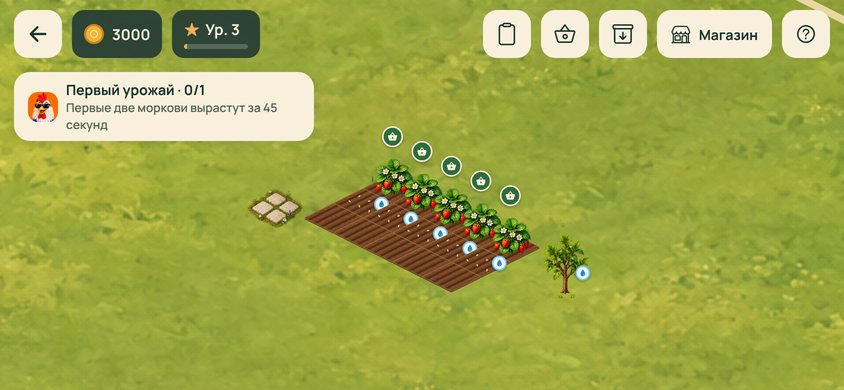
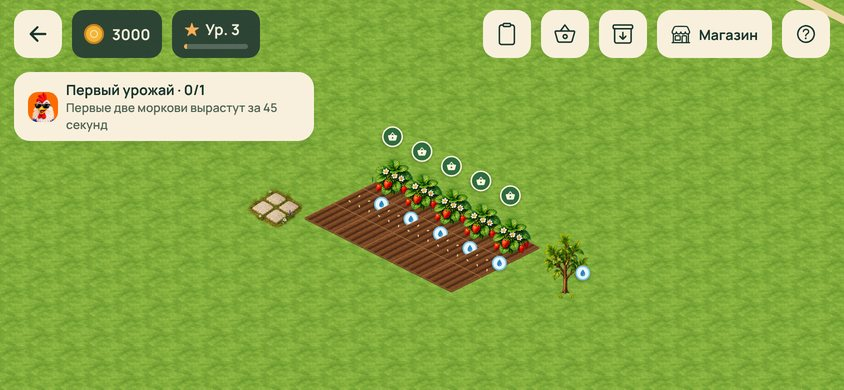
feat(farm): ground from one generated grass cell repeated everywhere
Replace the painted meadow with an original seamless grass cell (seeded
NumPy/Pillow generator) drawn on a 112x112-cell plane in 8x8 blocks with the
soil projection, so each grass square lands on one field cell. Planting stays
limited to the 32x32 field. Removes meadow-painted-v2.png from the bundle.

Claude-Session: https://claude.ai/code/session_01KFxz3P6cFXaNRdhpMhtKFe

diff --git a/apps/mobile/src/games/pick-farm/visuals.tsx b/apps/mobile/src/games/pick-farm/visuals.tsx
@@ -8,7 +8,7 @@ import { useGameCardHeight } from '../ArcadeCard';
 import { Image } from 'expo-image';
 import { View } from 'react-native';
 import { PLANTING_BOUNDS, HOUSE_DISPLAY_CELL, type CropId } from '@pickchick/farm-game';
-import { isoPoint, GROUND_TRANSFORM, TILE_WIDTH } from './geometry';
+import { isoPoint, GROUND_TRANSFORM, TILE_WIDTH, GRASS_CELLS } from './geometry';
 export { isoPoint, cellAtPoint } from './geometry';
 
 // Generated atlases remain intact. Each view clips its own source rectangle.
@@ -191,6 +191,52 @@ export function CellOutline({
     />
   );
 }
+
+const GRASS_BLOCK = 8;
+const grassBlock = require('../../../assets/games/pick-farm/grass-block.png');
+/**
+ * Ground made of one generated grass cell repeated everywhere. The plane is drawn as
+ * square blocks (8x8 cells each) and projected with the same transform as the soil, so
+ * every grass square lands exactly on one field cell. Centered on cell (31.5, 31.5).
+ */
+export const GrassGround = memo(function GrassGround() {
+  const side = GRASS_CELLS * TILE_WIDTH;
+  const center = isoPoint(31.5, 31.5);
+  const blocks = GRASS_CELLS / GRASS_BLOCK;
+  const block = GRASS_BLOCK * TILE_WIDTH;
+  return (
+    <View
+      pointerEvents="none"
+      accessible={false}
+      testID="pick-farm-grass"
+      style={{
+        position: 'absolute',
+        left: center.x - side / 2,
+        top: center.y - side / 2,
+        width: side,
+        height: side,
+        transform: GROUND_TRANSFORM,
+      }}
+    >
+      {Array.from({ length: blocks * blocks }, (_, i) => (
+        <NativeImage
+          key={i}
+          source={grassBlock}
+          resizeMode="stretch"
+          accessible={false}
+          style={{
+            position: 'absolute',
+            // A hair of overlap hides seams from sub-pixel rounding after the transform.
+            left: (i % blocks) * block - 0.5,
+            top: Math.floor(i / blocks) * block - 0.5,
+            width: block + 1,
+            height: block + 1,
+          }}
+        />
+      ))}
+    </View>
+  );
+});
 
 export const Landscape = memo(function Landscape({
   grid = false,

diff --git a/apps/mobile/src/games/pick-farm/PickFarmScreen.tsx b/apps/mobile/src/games/pick-farm/PickFarmScreen.tsx
@@ -46,11 +46,10 @@ import {
 } from './GardenPanels';
 import { useFarm, farmMessage } from './useFarm';
 import { useFarmSound } from './useFarmSound';
-import { CropArt, Landscape, CellOutline, isoPoint, cellAtPoint } from './visuals';
+import { CropArt, GrassGround, Landscape, CellOutline, isoPoint, cellAtPoint } from './visuals';
 import { farmPalette as p, farmStyles as s } from './styles';
 import { GroundCrop, cropStage } from './PlantingVisual';
 import {
-  MEADOW,
   MAX_ZOOM,
   MIN_ZOOM,
   WORLD_CENTER,
@@ -1214,18 +1213,7 @@ export function PickFarmScreen() {
             ],
           }}
         >
-          <NativeImage
-            source={require('../../../assets/games/pick-farm/meadow-painted-v2.png')}
-            resizeMode="stretch"
-            accessible={false}
-            style={{
-              position: 'absolute',
-              left: WORLD_CENTER.x - MEADOW.width / 2,
-              top: WORLD_CENTER.y - MEADOW.height / 2,
-              width: MEADOW.width,
-              height: MEADOW.height,
-            }}
-          />
+          <GrassGround />
           <Landscape
             houseStyle={progression.houseStyle}
             grid={panel === 'place' || drag !== null}

diff --git a/apps/mobile/src/games/pick-farm/geometry.ts b/apps/mobile/src/games/pick-farm/geometry.ts
@@ -22,8 +22,14 @@ export function cellAtPoint(px: number, py: number) {
   };
 }
 const clamp = (value: number, min: number, max: number) => Math.max(min, Math.min(max, value));
-/** Painted meadow in world pixels, centered on WORLD_CENTER. */
+/**
+ * Ground rectangle the camera may show, in world pixels, centered on WORLD_CENTER.
+ * It lies inside the generated grass plane (GRASS_CELLS per side), so grass always fills
+ * the screen.
+ */
 export const MEADOW = { width: 4400, height: 2800 } as const;
+/** Cells per side of the repeated grass plane centered on cell (31.5, 31.5). */
+export const GRASS_CELLS = 112;
 /** Field diamond plus the house above it, in world pixels. */
 const PROPERTY = { width: 3072, height: 1840 } as const;
 /** Screen rows reserved by the HUD; the world is drawn this far below the screen center. */

diff --git a/apps/mobile/src/games/pick-farm/build-grass-tile.py b/apps/mobile/src/games/pick-farm/build-grass-tile.py
@@ -1,0 +1,105 @@
+"""Original PICK FARM grass: one seamless top-down cell tile, repeated everywhere.
+
+Usage: python3 build-grass-tile.py <assets-dir>
+Writes grass-tile.png (one cell, 192x192) and grass-block.png (the same tile repeated
+8x8, 1536x1536) used to cover the ground with few image views. Deterministic (seeded).
+Pillow + NumPy: periodic value noise for colour, wrapped brush strokes for blades.
+"""
+import math
+import random
+import sys
+from pathlib import Path
+
+import numpy as np
+from PIL import Image, ImageDraw, ImageFilter
+
+OUT = Path(sys.argv[1] if len(sys.argv) > 1 else '.')
+TILE = 192
+SCALE = 4  # draw at 4x, downsample for soft painted edges
+S = TILE * SCALE
+rng = random.Random(20261006)
+np_rng = np.random.default_rng(20261006)
+
+
+def periodic_noise(size, cells):
+    """Tileable value noise: random lattice that wraps, smooth (cosine) interpolation."""
+    grid = np_rng.random((cells, cells))
+    coords = np.arange(size) / size * cells
+    i0 = np.floor(coords).astype(int) % cells
+    i1 = (i0 + 1) % cells
+    t = coords - np.floor(coords)
+    t = (1 - np.cos(t * math.pi)) / 2
+    a = grid[i0][:, i0] * (1 - t)[None, :] + grid[i0][:, i1] * t[None, :]
+    b = grid[i1][:, i0] * (1 - t)[None, :] + grid[i1][:, i1] * t[None, :]
+    return a * (1 - t)[:, None] + b * t[:, None]
+
+
+noise = sum(periodic_noise(S, c) * w for c, w in [(4, 0.25), (8, 0.35), (16, 0.25), (32, 0.15)])
+noise = (noise - noise.min()) / (noise.max() - noise.min())
+
+# Warm meadow palette sampled to sit between the soil and the painted plants.
+dark = np.array([104, 150, 46], float)
+mid = np.array([128, 174, 58], float)
+light = np.array([156, 196, 76], float)
+k = noise[..., None]
+base = np.where(k < 0.5, dark + (mid - dark) * (k / 0.5), mid + (light - mid) * ((k - 0.5) / 0.5))
+img = Image.fromarray(base.clip(0, 255).astype('uint8'), 'RGB').convert('RGBA')
+
+layer = Image.new('RGBA', (S, S), (0, 0, 0, 0))
+draw = ImageDraw.Draw(layer)
+
+
+def wrapped(points_fn):
+    for ox in (-S, 0, S):
+        for oy in (-S, 0, S):
+            points_fn(ox, oy)
+
+
+# Grass tufts: 3-5 tapered blades from one root, dark at the root, light at the tip.
+for _ in range(260):
+    x, y = rng.uniform(0, S), rng.uniform(0, S)
+    shade = rng.uniform(0, 1)
+    root = (int(78 + 20 * shade), int(118 + 22 * shade), 36, 170)
+    tip = (int(170 + 30 * shade), int(206 + 20 * shade), int(88 + 20 * shade), 150)
+    blades = []
+    for _ in range(rng.randint(3, 5)):
+        # The ground plane is rotated 45 degrees: plane up-left becomes screen up.
+        angle = -3 * math.pi / 4 + rng.uniform(-0.75, 0.75)
+        length = rng.uniform(16, 30)
+        bend = rng.uniform(-0.4, 0.4)
+        blades.append((angle, length, bend))
+
+    def tuft(ox, oy, x=x, y=y, blades=blades, root=root, tip=tip):
+        for angle, length, bend in blades:
+            for seg in range(5):
+                f0, f1 = seg / 5, (seg + 1) / 5
+                a0, a1 = angle + bend * f0, angle + bend * f1
+                p0 = (x + ox + math.cos(a0) * length * f0, y + oy + math.sin(a0) * length * f0)
+                p1 = (x + ox + math.cos(a1) * length * f1, y + oy + math.sin(a1) * length * f1)
+                c = tuple(int(root[i] + (tip[i] - root[i]) * f1) for i in range(4))
+                draw.line([p0, p1], fill=c, width=max(1, round(5 * (1 - f0 * 0.8))))
+
+    wrapped(tuft)
+
+# Soft clover-like dabs break up the strokes without forming a recognisable motif.
+for _ in range(40):
+    x, y = rng.uniform(0, S), rng.uniform(0, S)
+    r = rng.uniform(6, 14)
+    color = rng.choice([(120, 166, 54, 60), (160, 198, 80, 50), (96, 138, 44, 50)])
+
+    def dab(ox, oy, x=x, y=y, r=r, color=color):
+        draw.ellipse((x - r + ox, y - r * 0.8 + oy, x + r + ox, y + r * 0.8 + oy), fill=color)
+
+    wrapped(dab)
+
+layer = layer.filter(ImageFilter.GaussianBlur(0.8))
+img = Image.alpha_composite(img, layer)
+tile = img.resize((TILE, TILE), Image.LANCZOS).convert('RGB')
+OUT.mkdir(parents=True, exist_ok=True)
+tile.save(OUT / 'grass-tile.png', optimize=True)
+block = Image.new('RGB', (TILE * 8, TILE * 8))
+for by in range(8):
+    for bx in range(8):
+        block.paste(tile, (bx * TILE, by * TILE))
+block.save(OUT / 'grass-block.png', optimize=True)
+print('grass tile', tile.size, 'block', block.size)

diff --git a/apps/mobile/src/games/pick-farm/DESIGN.md b/apps/mobile/src/games/pick-farm/DESIGN.md
@@ -91,7 +91,7 @@ size (13-26 px): forest basket for ripe, brown leaf for withered, a small water 
 the bed front for "needs water" (hidden at overview). Watered soil is darker. Effects:
 watering can and shower, produce/coins flying to HUD counters, rising +N labels, leaf puff
 on clearing, level-up card with unlocks. One hop when a badge appears; still no perpetual
-sway. The meadow covers the screen at every zoom; the first view frames the garden.
+sway. Grass covers the screen at every zoom; the first view frames the garden.
 The watering can is original procedural art (`build-watering-can.py`).
 
 ## October 5 progression extension
@@ -162,7 +162,7 @@ Soft rectangular controls use the rounded scale, with panels and dock at its lar
 
 Buttons use cream for secondary actions and forest for primary actions. Pressed opacity is 0.75; disabled opacity is 0.48. The bottom dock is removed; actions are contextual. Metrics sit in translucent forest pills. Cream panels expose shop, storage, orders, plot details, removal confirmation and help; choices use a warmer parchment inset. Shop purchase actions lead the panel: the bed button uses forest primary styling, with the tree button beside it. The culture strip follows with a visible scroll cue and compact 52 pixel crop previews; storage uses 64 pixel previews. The shop has no introductory text block. There is no standalone text-input component in this surface.
 
-The imagery sources are meadow-painted-v2.png, props-painted-v2.png and plants-painted-v2.png. The props atlas provides the house; soil-texture-v3.png provides a top-down generated soil texture projected to the exact ground diamond; the plants atlas contains six columns and three phase rows, giving 18 crop sprites. Use clipped source coordinates from visuals.tsx rather than substituting emoji or screenshots. Decorative images remain outside the accessibility tree; actionable plots keep their own labels.
+The ground is one generated grass cell (grass-tile.png) repeated on every cell through grass-block.png; the other imagery sources are props-painted-v2.png and plants-painted-v2.png. The props atlas provides the house; soil-texture-v3.png provides a top-down generated soil texture projected to the exact ground diamond; the plants atlas contains six columns and three phase rows, giving 18 crop sprites. Use clipped source coordinates from visuals.tsx rather than substituting emoji or screenshots. Decorative images remain outside the accessibility tree; actionable plots keep their own labels.
 
 ## Do's and Don'ts
 

diff --git a/docs/design/pick-farm-v2.md b/docs/design/pick-farm-v2.md
@@ -119,6 +119,17 @@
 грядка остаётся видна. Строительство продолжается после покупки: призрак грядки
 переходит на соседнюю свободную клетку с новой ценой.
 
+### Земля из одной клетки травы (6 октября, по замечанию владельца)
+
+Рисованный луг заменён одной сгенерированной клеткой травы, повторённой на каждой
+клетке. `build-grass-tile.py` (NumPy + Pillow, фиксированный seed) строит бесшовную
+клетку 192x192 и блок 8x8 из неё. Плоскость 112x112 клеток (12 544) рисуется 196
+изображениями-блоками с той же проекцией, что и почва, поэтому квадрат травы точно
+совпадает с клеткой поля. Строить и сажать по-прежнему можно только на участке 32x32
+(1024 клетки, координаты 16..47); трава вокруг - фон. Тест проверяет, что трава
+закрывает любую область, которую может показать камера. `meadow-painted-v2.png`
+удалён из сборки (-3 МБ).
+
 ## Совместимость и выпуск
 
 - Сохранения игроков: форма состояния `version=2` не менялась, миграции не нужны.

diff --git a/apps/mobile/assets/games/pick-farm/PROVENANCE.md b/apps/mobile/assets/games/pick-farm/PROVENANCE.md
@@ -111,3 +111,11 @@ projected to an exact 2:1 isometric diamond in native code.
 `watering-can.png` is original procedural artwork drawn for PICK FARM by
 `src/games/pick-farm/build-watering-can.py` (Pillow vector shapes, cylindrical shading,
 light noise). No third-party image was used. Rebuild with the script if it changes.
+
+## Grass cell tile - 2026-10-06
+
+By the owner's request the painted meadow was replaced by one generated grass cell repeated
+on every cell. `grass-tile.png` (192x192, one cell, seamless) and `grass-block.png` (the
+same tile 8x8) are original procedural art from `src/games/pick-farm/build-grass-tile.py`
+(seeded NumPy noise and Pillow strokes, deterministic). `meadow-painted-v2.png` is no longer
+used and was removed from the app bundle; it remains in Git history.
